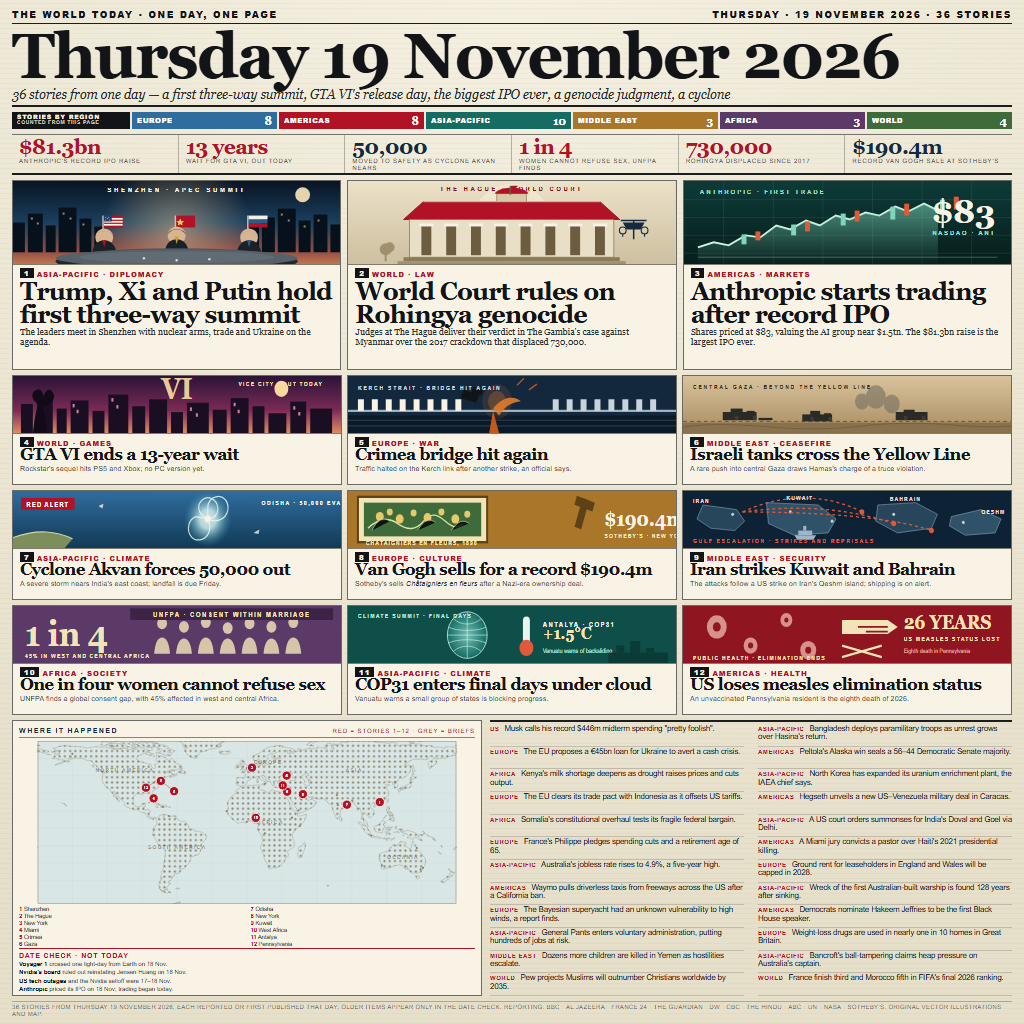
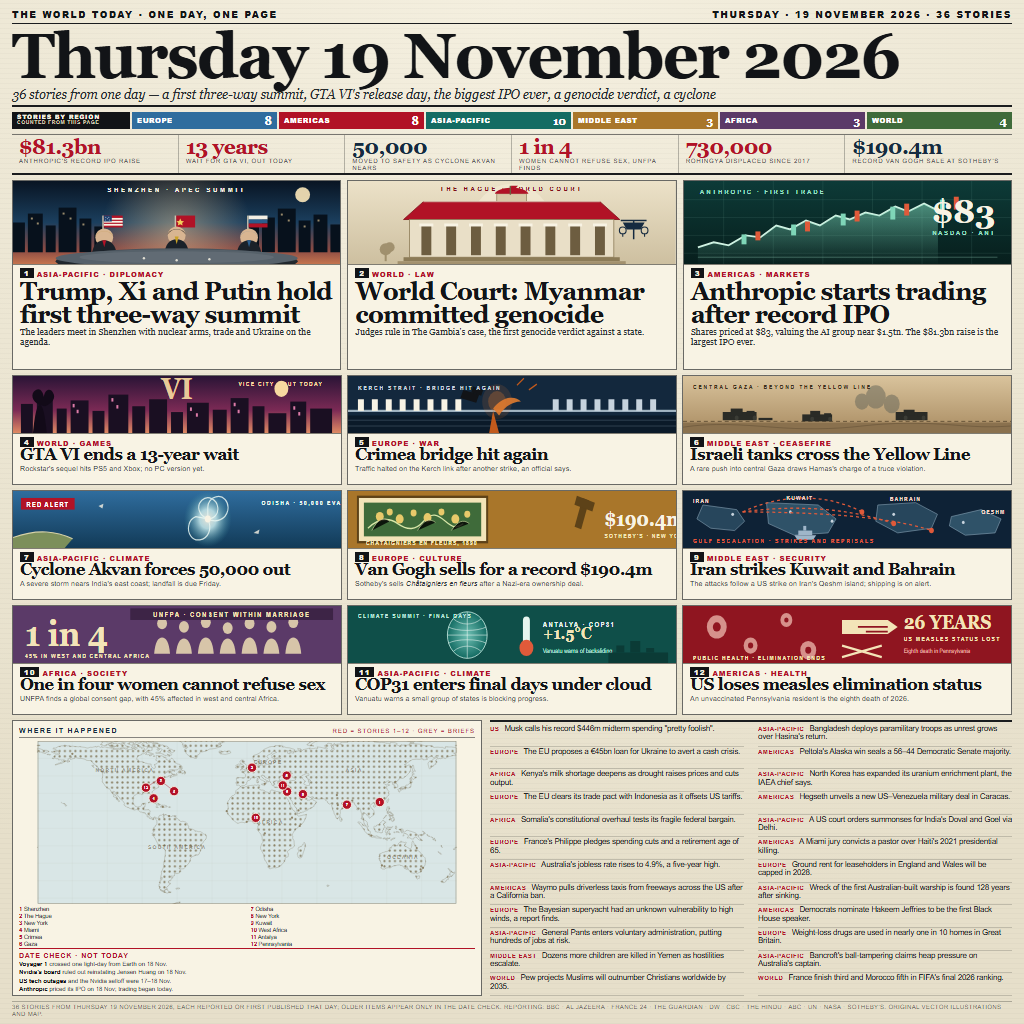
Add ICJ genocide verdict headline

Changed region(s): [[0.3438, 0.2812, 0.625, 0.3438], [0.625, 0.0625, 0.6875, 0.125]]

diff --git a/README.md b/README.md
@@ -4,7 +4,7 @@
 ![rank](https://make.fun/badge/news-image-20261119/sondero-ai/news-image-20261119/rank.svg)
 ![reward](https://make.fun/badge/news-image-20261119/sondero-ai/news-image-20261119/reward.svg)
 
-A one-page broadsheet that sums up the world news of Thursday, 19 November 2026: the first Trump–Xi–Putin three-way summit, the ICJ's Rohingya genocide ruling, Anthropic's record $81.3bn IPO, GTA VI's launch after 13 years, Cyclone Akvan, the Gulf escalation, and the day's other stories, each with a short label a reader can follow.
+A one-page broadsheet that sums up the world news of Thursday, 19 November 2026: the first Trump–Xi–Putin three-way summit, the ICJ's landmark ruling that Myanmar committed genocide against the Rohingya, Anthropic's record $81.3bn IPO, GTA VI's launch after 13 years, Cyclone Akvan, the Gulf escalation, and the day's other stories, each with a short label a reader can follow.
 
 Entry for the [make.fun bounty news-image-20261119](https://make.fun/bounty/news-image-20261119).
 
